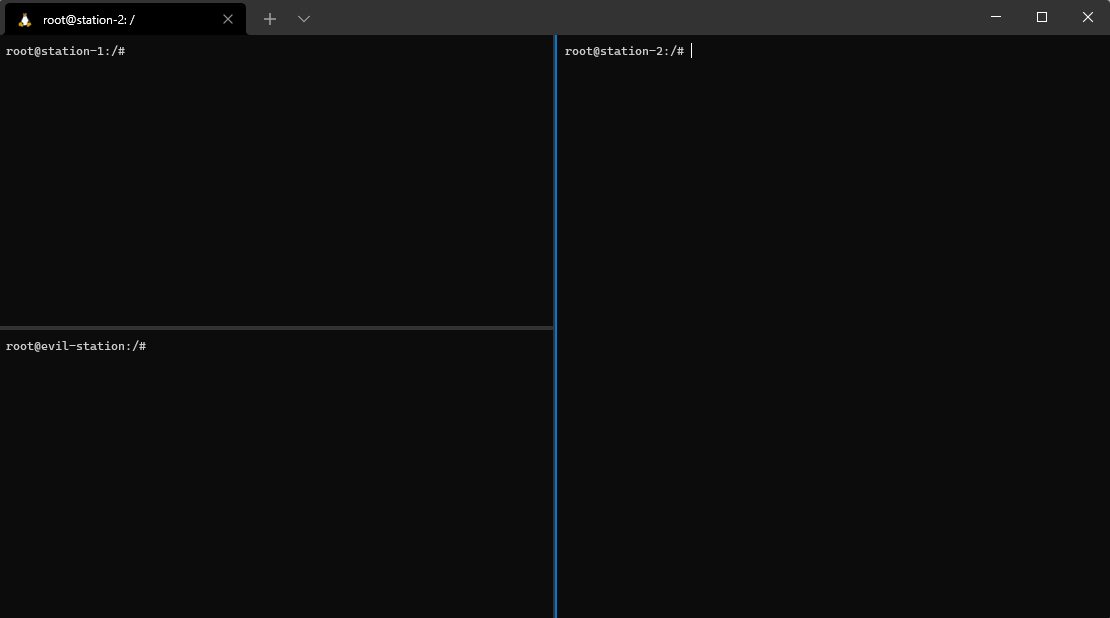
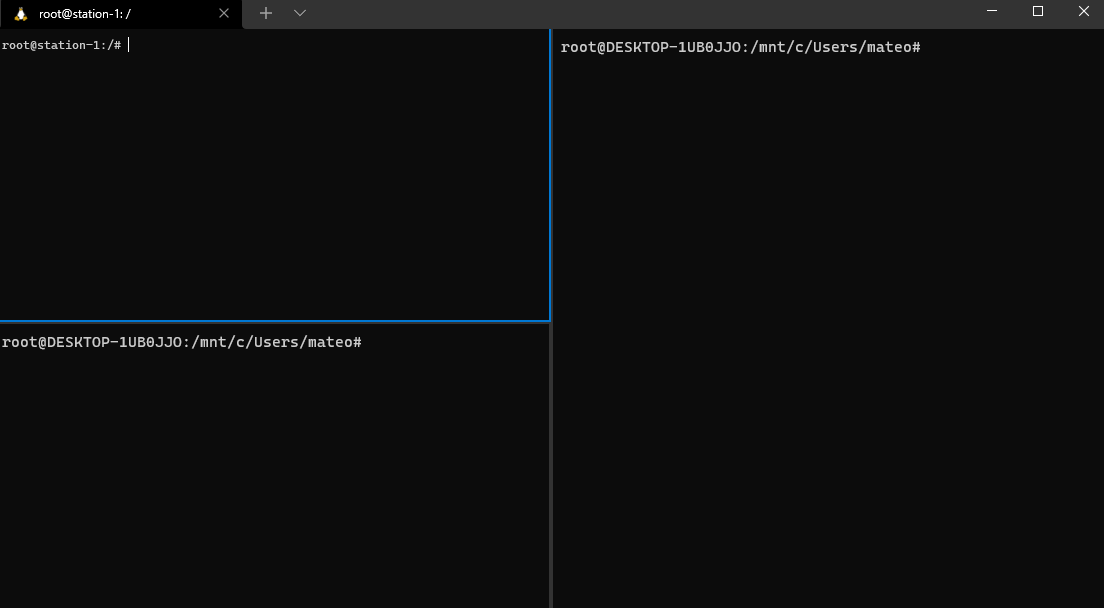
Add files via upload

Changed region(s): [[0.0, 0.0, 1.0, 0.5938]]

diff --git a/Vjezba01/Vjezba01.md b/Vjezba01/Vjezba01.md
@@ -22,13 +22,11 @@ Realizirati *man in the middle* napad iskorištavanjem ranjivosti ARP protokol
 
 a) **Otvaranje Windows terminal aplikaciju**
 
-[Windows Terminal Icon.jfif](Sigurnost%20Rac%CC%8Cunala%20i%20Podataka%205e50066b481d462ba4fa1924b0b48f6f/Windows_Terminal_Icon.jfif)
+![Untitled](Vjezba01\Untitled.png)
 
 Windows PowerShell
 Copyright (C) Microsoft Corporation. All rights reserved.
-
 Install the latest PowerShell for new features and improvements! [https://aka.ms/PSWindows](https://aka.ms/PSWindows)
-
 PS C:\Users\mateo>
 
 b) **Pozicioniranje na željeni direktorij (npr. *Desktop*)**
@@ -58,9 +56,9 @@ Resolving deltas: 100% (55/55), done.
 
 a) **Otvaranje Ubuntu terminal na WSL sustavu**
 
-![Untitled](Sigurnost%20Rac%CC%8Cunala%20i%20Podataka%205e50066b481d462ba4fa1924b0b48f6f/Untitled.png)
+![Untitled](Vjezba01\Untitled 1.png)
 
-![Untitled](Sigurnost%20Rac%CC%8Cunala%20i%20Podataka%205e50066b481d462ba4fa1924b0b48f6f/Untitled%201.png)
+![Untitled](Vjezba01\Untitled 2.png)
 
 b) **Pozicioniranje na radni direktorij**
 
@@ -135,7 +133,6 @@ Building station-1
 => => exporting layers                                                                                                          0.0s
 => => writing image sha256:23d2f793e9470d849039c15fe358a3997b6de0238d42ee3283ba05996a2b0bdc       0.0s
 => => naming to [docker.io/cns/station:ver1.0](http://docker.io/cns/station:ver1.0)                                                                      0.0s
-
 Use 'docker scan' to run Snyk tests against images to find vulnerabilities and learn how to fix them
 Creating and starting containers ...
 Creating network "cns-lab" with the default driver
@@ -195,7 +192,7 @@ PING station-2 (172.18.0.3) 56(84) bytes of data.
 
 a) **Ponoviti korak 2 (dva puta) gjde se pri tom koristi "Alt" + "Lijevi klik miša" za otvaranje dodatnih Ubuntu terminala**
 
-![Untitled](Sigurnost%20Rac%CC%8Cunala%20i%20Podataka%205e50066b481d462ba4fa1924b0b48f6f/Untitled%202.png)
+![Untitled](Vjezba01\Untitled 3.png)
 
 b) **U novootvorenim treminalima pokrenuti interaktivni shell u `station-2` kontejneru, odnosno interaktivni shell u `evil-station` kontejneru**
 
@@ -207,7 +204,7 @@ docker exec -it station-2 bash
 docker exec -it evil-station bash
 ```
 
-![Untitled](Sigurnost%20Rac%CC%8Cunala%20i%20Podataka%205e50066b481d462ba4fa1924b0b48f6f/Untitled%203.png)
+![Untitled](Vjezba01\Untitled 4.png)
 
 c) **Dohvaćanje konfiguracije mrežnog interfejsa `station-2`, odnosno `evil-station` (korak 3e)**
 
@@ -247,7 +244,7 @@ arpspoof -t station-1 station-2
 
 b) **Otvaranje dodatnog Ubunutu terminala (kao korak 4a i 4b) za `evil-station`**
 
-![Untitled](Sigurnost%20Rac%CC%8Cunala%20i%20Podataka%205e50066b481d462ba4fa1924b0b48f6f/Untitled%204.png)
+![Untitled](Vjezba01\Untitled 5.png)
 
 c) **Pokrećemo tcpdump u kontejneru `evil-station` i pratimo promet (novi terminal)**
 
@@ -255,7 +252,7 @@ c) **Pokrećemo tcpdump u kontejneru `evil-station` i pratimo promet (novi termi
 tcpdump
 ```
 
-![Untitled](Sigurnost%20Rac%CC%8Cunala%20i%20Podataka%205e50066b481d462ba4fa1924b0b48f6f/Untitled%205.png)
+![Untitled](Vjezba01\Untitled 6.png)
 
 c) **Za filtiranje podatka, odnosno zanemarivanje paketa stvorenog od `evil-station`**
 
@@ -263,7 +260,7 @@ c) **Za filtiranje podatka, odnosno zanemarivanje paketa stvorenog od `evil-stat
 tcpdump tcp
 ```
 
-![Untitled](Sigurnost%20Rac%CC%8Cunala%20i%20Podataka%205e50066b481d462ba4fa1924b0b48f6f/Untitled%206.png)
+![Untitled](Vjezba01\Untitled 7.png)
 
 **Ili još za prikaz podataka u hex prikazu**
 
@@ -271,7 +268,7 @@ tcpdump tcp
 tcpdump tcp -X
 ```
 
-![Untitled](Sigurnost%20Rac%CC%8Cunala%20i%20Podataka%205e50066b481d462ba4fa1924b0b48f6f/Untitled%207.png)
+![Untitled](Vjezba01\Untitled 8.png)
 
 **Ili za gašenje prosljeđivanja spoofanih paketa**
 
@@ -279,7 +276,7 @@ tcpdump tcp -X
 echo 0 > /proc/sys/net/ipv4/ip_forward
 ```
 
-![Untitled](Sigurnost%20Rac%CC%8Cunala%20i%20Podataka%205e50066b481d462ba4fa1924b0b48f6f/Untitled%208.png)
+![Untitled](Vjezba01\Untitled 9.png)
 
 ### 7. Korak
 
